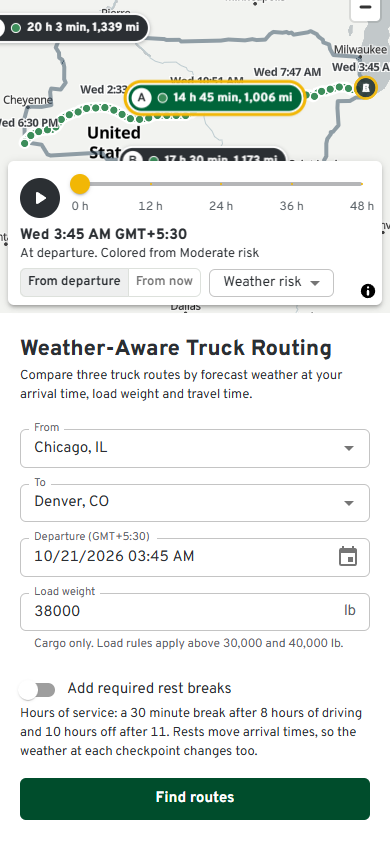
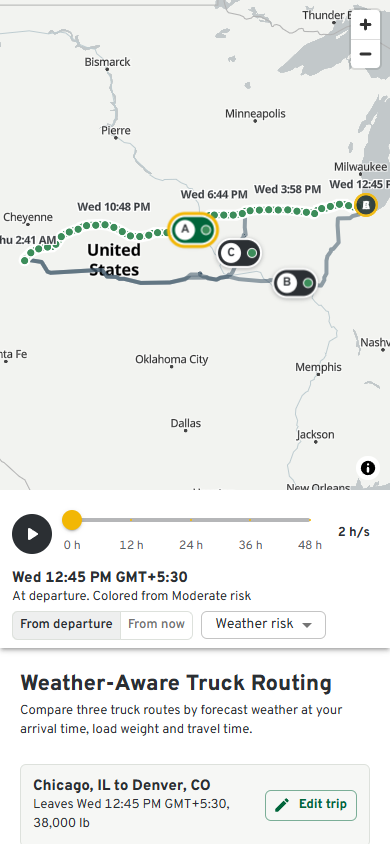
Document layout review and refresh screenshots

diff --git a/docs/decisions.md b/docs/decisions.md
@@ -31,6 +31,7 @@ Every significant choice in this project, with the options considered, what was 
 | [DR-025](#dr-025-hours-of-service-rest-breaks) | Hours-of-service rest breaks | Accepted |
 | [DR-026](#dr-026-simulated-storm-demo-mode) | Simulated storm demo mode | Accepted |
 | [DR-027](#dr-027-shareable-trip-links) | Shareable trip links | Accepted |
+| [DR-028](#dr-028-layout-and-map-label-review) | Layout and map label review | Accepted |
 
 ---
 
@@ -593,3 +594,21 @@ The storm is applied after the real forecast is fetched and cached, so cached da
 **Precision.** Coordinates first used 5 decimals. Reopening a link then missed the server's route cache (the cache key uses the exact coordinates), TomTom recalculated with live traffic, and the result differed by 2 minutes from the original. Links now keep 6 decimals, the precision place search returns, and a reopened link reproduces the original plan exactly (checked in the browser).
 
 **Tests.** 9 unit tests (round trip including labels with commas, demo mode kept, past departures moved, five malformed links ignored, unknown spacing falling back to 25 miles) and a browser check (address updates on interval change, the clipboard holds the address, a fresh page opens on the same trip, form and spacing restored).
+
+---
+
+## DR-028: Layout and map label review
+
+**Why.** A screenshot review of the finished app, desktop and phone, found five things a reviewer would notice in the first minute. None broke a requirement; all made the main screen harder to read.
+
+| Found | Change | Result |
+|---|---|---|
+| After planning, the full form stayed on top and the recommendation started halfway down the panel | The form folds into a two-line trip summary with "Edit trip"; editing shows the form again with "Keep the current trip" | The guide sign is the second thing in the panel on desktop |
+| Route chips were pinned at fixed shares of each route (42%, 55%, 68%), so they stacked where routes shared a highway and covered arrival times | Each chip goes on the point of its route farthest from the other routes and chips (15% to 85% of the way, middle preferred among near-equal points). A transparent box of the chip's size is placed in the map's own label placement, so arrival times and place names under a chip give way | No chip overlaps another or a label in the Chicago to Denver and storm checks; 3 unit tests |
+| On phones the timeline covered about half the map, and the map collapsed to its 320 px minimum | The timeline is a strip under the map on phones; the map is 58% of the screen height and frames the routes without room for an overlay; chips show only the letter and worst risk | Map 390 x 490 px, all of the trip in view, no horizontal scroll |
+| Playback ran 6 forecast hours a second (48 h in 8 s), chosen for the heatmap before trucks were added; a truck crossed about 330 miles of map a second | Default 2 hours a second (48 h in 24 s), with a speed button for 1, 2 or 6 | In 2 s of play the recommended truck moves about 4 hours of driving, easy to follow |
+| In "Best time to leave", one click on a bar re-planned the trip without saying what the bar was | Pointing at or selecting a bar shows it ("Leave Wed 5:45 PM (in 5 h): Route A, worst weather Low"); a separate "Plan this departure" button re-plans. The description says what a bar is | No accidental re-plans; the readout is announced to screen readers |
+
+The rest-break note under the switch is now one line.
+
+**Checks.** Type check, lint, format and 61 unit tests pass. A browser tour (desktop 1440 x 900 and phone 390 x 844) covers the summary, route list, advisor hover and select, checkpoint popup, playback, layers, edit trip and storm mode, with no page or console errors.

diff --git a/README.md b/README.md
@@ -23,7 +23,7 @@ Plan a truck trip and see which of three routes is safest to drive. The app chec
 | Risk from the wind, rain and snow table plus the load rules | Every checkpoint shows its level, the condition that set it, and any load rule that raised it |
 | Recommend the best route, balancing risk and travel time | The guide sign at the top, the "Why Route A" panel, and a note when a riskier route is much faster |
 | All routes, checkpoints, risk levels, ETAs and summaries on a map | Route lines (the selected one colored by risk), checkpoint dots with arrival times, popups, and a summary chip per route |
-| Weather heatmap along the trip corridor with a 0 to 48 hour slider | Forecast grid around all three routes, a slider in 15 minute steps, play button, and layers for risk, risk with load, wind, rain and snow |
+| Weather heatmap along the trip corridor with a 0 to 48 hour slider | Forecast grid around all three routes, a slider in 15 minute steps, play button with 1, 2 or 6 forecast hours a second, and layers for risk, risk with load, wind, rain and snow |
 | Extra: best time to leave | Re-scores the routes for departures up to 24 hours later and suggests the safest one ([DR-022](docs/decisions.md#dr-022-departure-time-advisor)) |
 | Extra: trucks on the timeline | A marker per route moves with the forecast slider, so you can watch each truck meet the weather ([DR-024](docs/decisions.md#dr-024-trucks-on-the-timeline)) |
 | Extra: required rest breaks | Optional hours-of-service breaks added to arrival times, which changes the forecast at each checkpoint ([DR-025](docs/decisions.md#dr-025-hours-of-service-rest-breaks)) |
